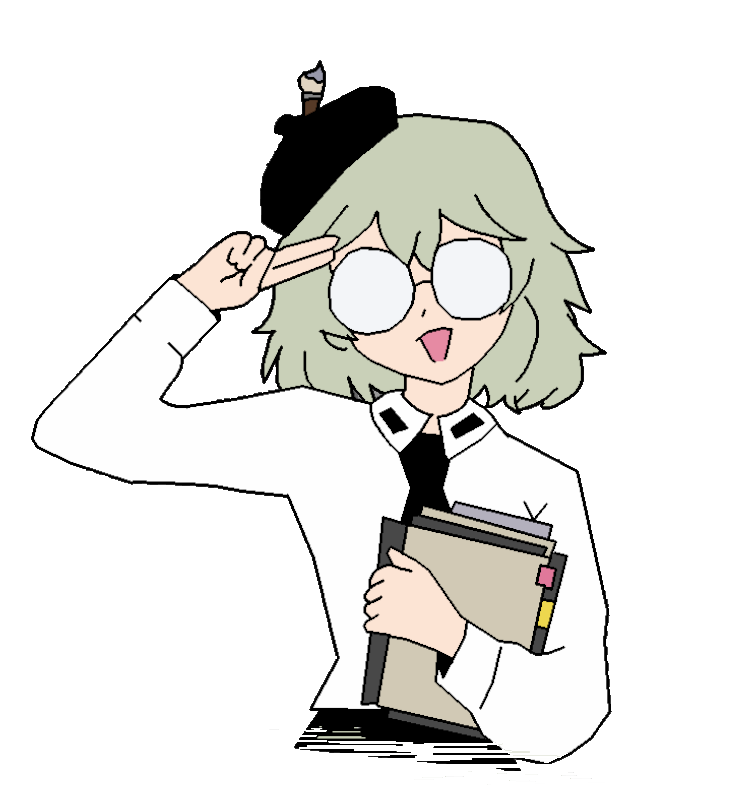
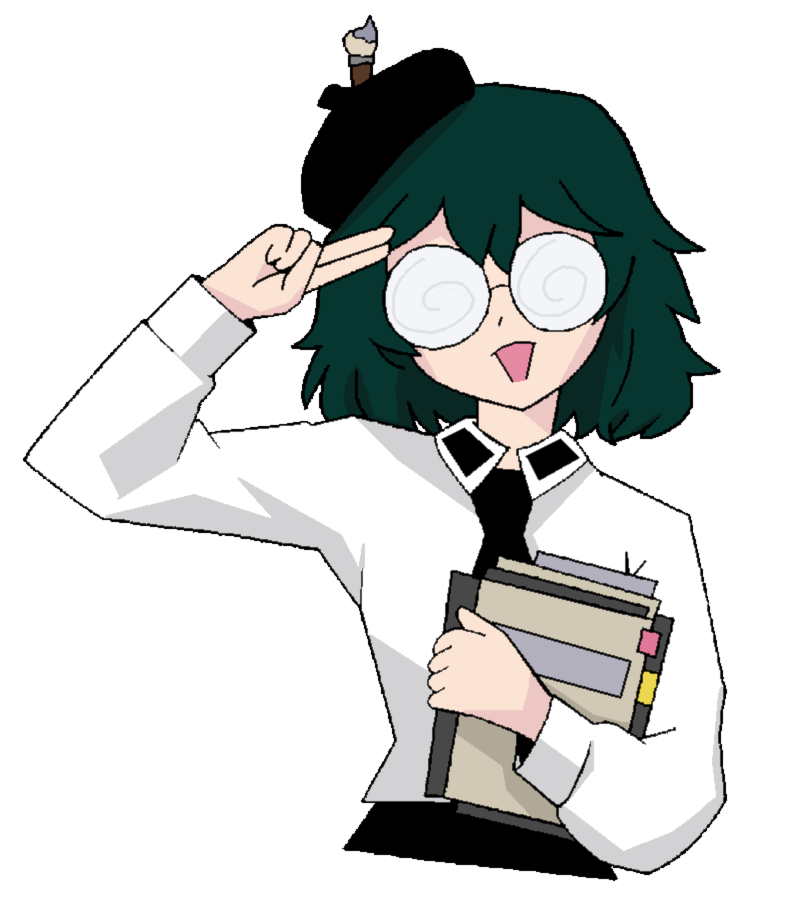
Update SCHEDA mascot to new emerald-haired Francesca

diff --git a/index.html b/index.html
@@ -218,7 +218,7 @@
             <p class="pb-lede">SCHEDA sucht Kunstwerke in offenen Museumsarchiven, zeigt zu jedem Bild Herkunft und Rechte und lädt die Originaldateien gesammelt herunter.</p>
           </div>
           <figure class="lead-mascot">
-            <img src="assets/scheda-francesca.png" alt="Francesca, das Maskottchen von SCHEDA, mit Baskenmütze, Brille und Aktenordner" width="732" height="794">
+            <img src="assets/scheda-francesca.png" alt="Francesca, das Maskottchen von SCHEDA, mit Baskenmütze, Brille und Aktenordner" width="800" height="899">
           </figure>
         </div>
 
